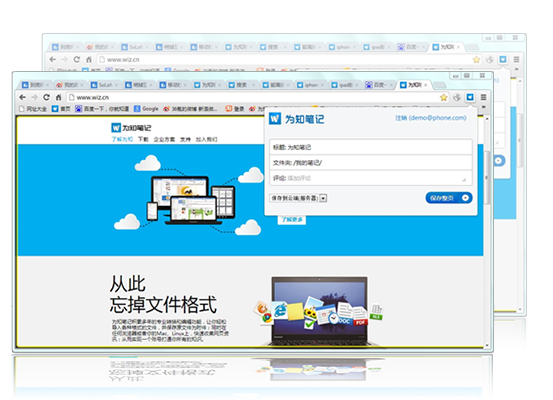
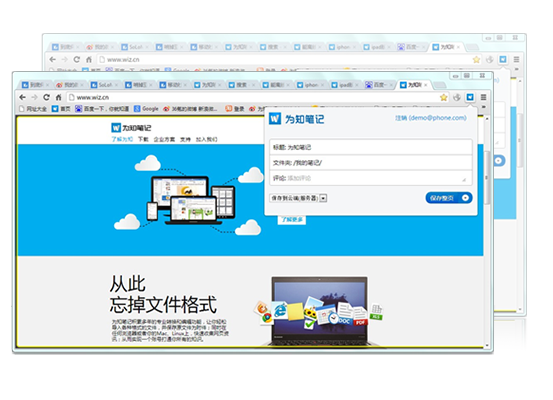
部分图片更换及网页剪辑器内容更换

Changed region(s): [[0.0, 0.87, 0.8915, 0.99]]

diff --git a/wiznote-linux.html b/wiznote-linux.html
@@ -65,7 +65,7 @@
                     <div class="articles">
                         <div class="piece">
                             <h2 class="article-title">为知笔记 Linux客户端下载</h2>
-                            <p class="article-text">Wiznote lunux开源版本始于2012年10月，由我知科技公司发起，它是一个开源项目，个人用户使用遵循GPLv3协议，任何人都可以获得源代码，做出任何修改。<br>Wiznote是为自由而生的！笔记，是一辈子的事情，需要细心呵护。<br>Linux上有很多笔记类项目，他们要么已经停止开发，比如basket，要么功能太弱，不足以作为知识管理工具，比如tomboy。<br>Wiznote的设计遵循3S的设计原则，Simple, Stupid And Strong。<br>Wiznote是一个刚刚萌芽，并处于火热开发状态的项目，欢迎各位开源爱好者加入到这个项目中。<br>从github上获得所有代码：<a href="https://github.com/WizTeam/WizQTClient" class="dark">https://github.com/WizTeam/WizQTClient</a></p>
+                            <p class="article-text">Wiznote linux开源版本始于2012年10月，由我知科技公司发起，它是一个开源项目，个人用户使用遵循GPLv3协议，任何人都可以获得源代码，做出任何修改。<br>Wiznote是为自由而生的！笔记，是一辈子的事情，需要细心呵护。<br>Linux上有很多笔记类项目，他们要么已经停止开发，比如basket，要么功能太弱，不足以作为知识管理工具，比如tomboy。<br>Wiznote的设计遵循3S的设计原则，Simple, Stupid And Strong。<br>Wiznote是一个刚刚萌芽，并处于火热开发状态的项目，欢迎各位开源爱好者加入到这个项目中。<br>从github上获得所有代码：<a href="https://github.com/WizTeam/WizQTClient" class="dark">https://github.com/WizTeam/WizQTClient</a></p>
                             <!-- <img src="assets/img/img-wiznote-linux-1.jpg"></img> -->
                             <h3 class="chapter-title">已通过的测试平台：</h3>
                             <ul class="insideul">

diff --git a/wiznote-webclippermaxthon.html b/wiznote-webclippermaxthon.html
@@ -59,11 +59,11 @@
                         <p class="article-text">由于GFW防火墙的问题，可能会导致一些插件无法安装成功，这时需要用户自行下载插件手动安装:</p>
                         <ol class="text">
                             <li>下载网页剪辑器；</li>
-                            <li>直接双击打开.mxaddon文件或将其拖拽到Opera窗口内即可</p>
+                            <li>直接双击打开.mxaddon文件或将其拖拽到浏览器窗口内即可</p>
                         </ol>
                          <h1 class="article-title" >使用说明</h1>
                         <p class="article-text">安装了为知笔记网页剪辑器后，可以看到在工具栏或插件栏上出现为知笔记的图标。<br>点击该图标，出现对话框，如下图所示：</p>
-                        <img src="assets/img/webclipperuse-1.png">
+                        <img src="assets/img/webclippermaxthon-1.png">
                         <p class="article-text">输入为知笔记账号和密码，即可进入剪辑界面。若无为知账号，可以“创建为知笔记账号”。<br>进入后可以看到如下图所示界面：</p>
                         <img src="assets/img/webclipperuse-2.png">
                         <p class="article-text">标题：默认为网页标题，可以自己修改;<br>

diff --git a/wiznote-webclippersogou.html b/wiznote-webclippersogou.html
@@ -59,11 +59,11 @@
                         <p class="article-text">由于GFW防火墙的问题，可能会导致一些插件无法安装成功，这时需要用户自行下载插件手动安装:</p>
                         <ol class="article-text">
                             <li>下载网页剪辑器；</li>
-                            <li>直接双击打开.sext文件或将其拖拽到Opera窗口内即可</p>
+                            <li>直接双击打开.sext文件或将其拖拽到浏览器窗口内即可</p>
                         </ol>
                          <h1 class="article-title" >使用说明</h1>
                         <p class="article-text">安装了为知笔记网页剪辑器后，可以看到在工具栏或插件栏上出现为知笔记的图标。<br>点击该图标，出现对话框，如下图所示：</p>
-                        <img src="assets/img/webclipperuse-1.png">
+                        <img src="assets/img/webclippersogou-1.png">
                         <p class="article-text">输入为知笔记账号和密码，即可进入剪辑界面。若无为知账号，可以“创建为知笔记账号”。<br>进入后可以看到如下图所示界面：</p>
                         <img src="assets/img/webclipperuse-2.png">
                         <p class="article-text">标题：默认为网页标题，可以自己修改;<br>
